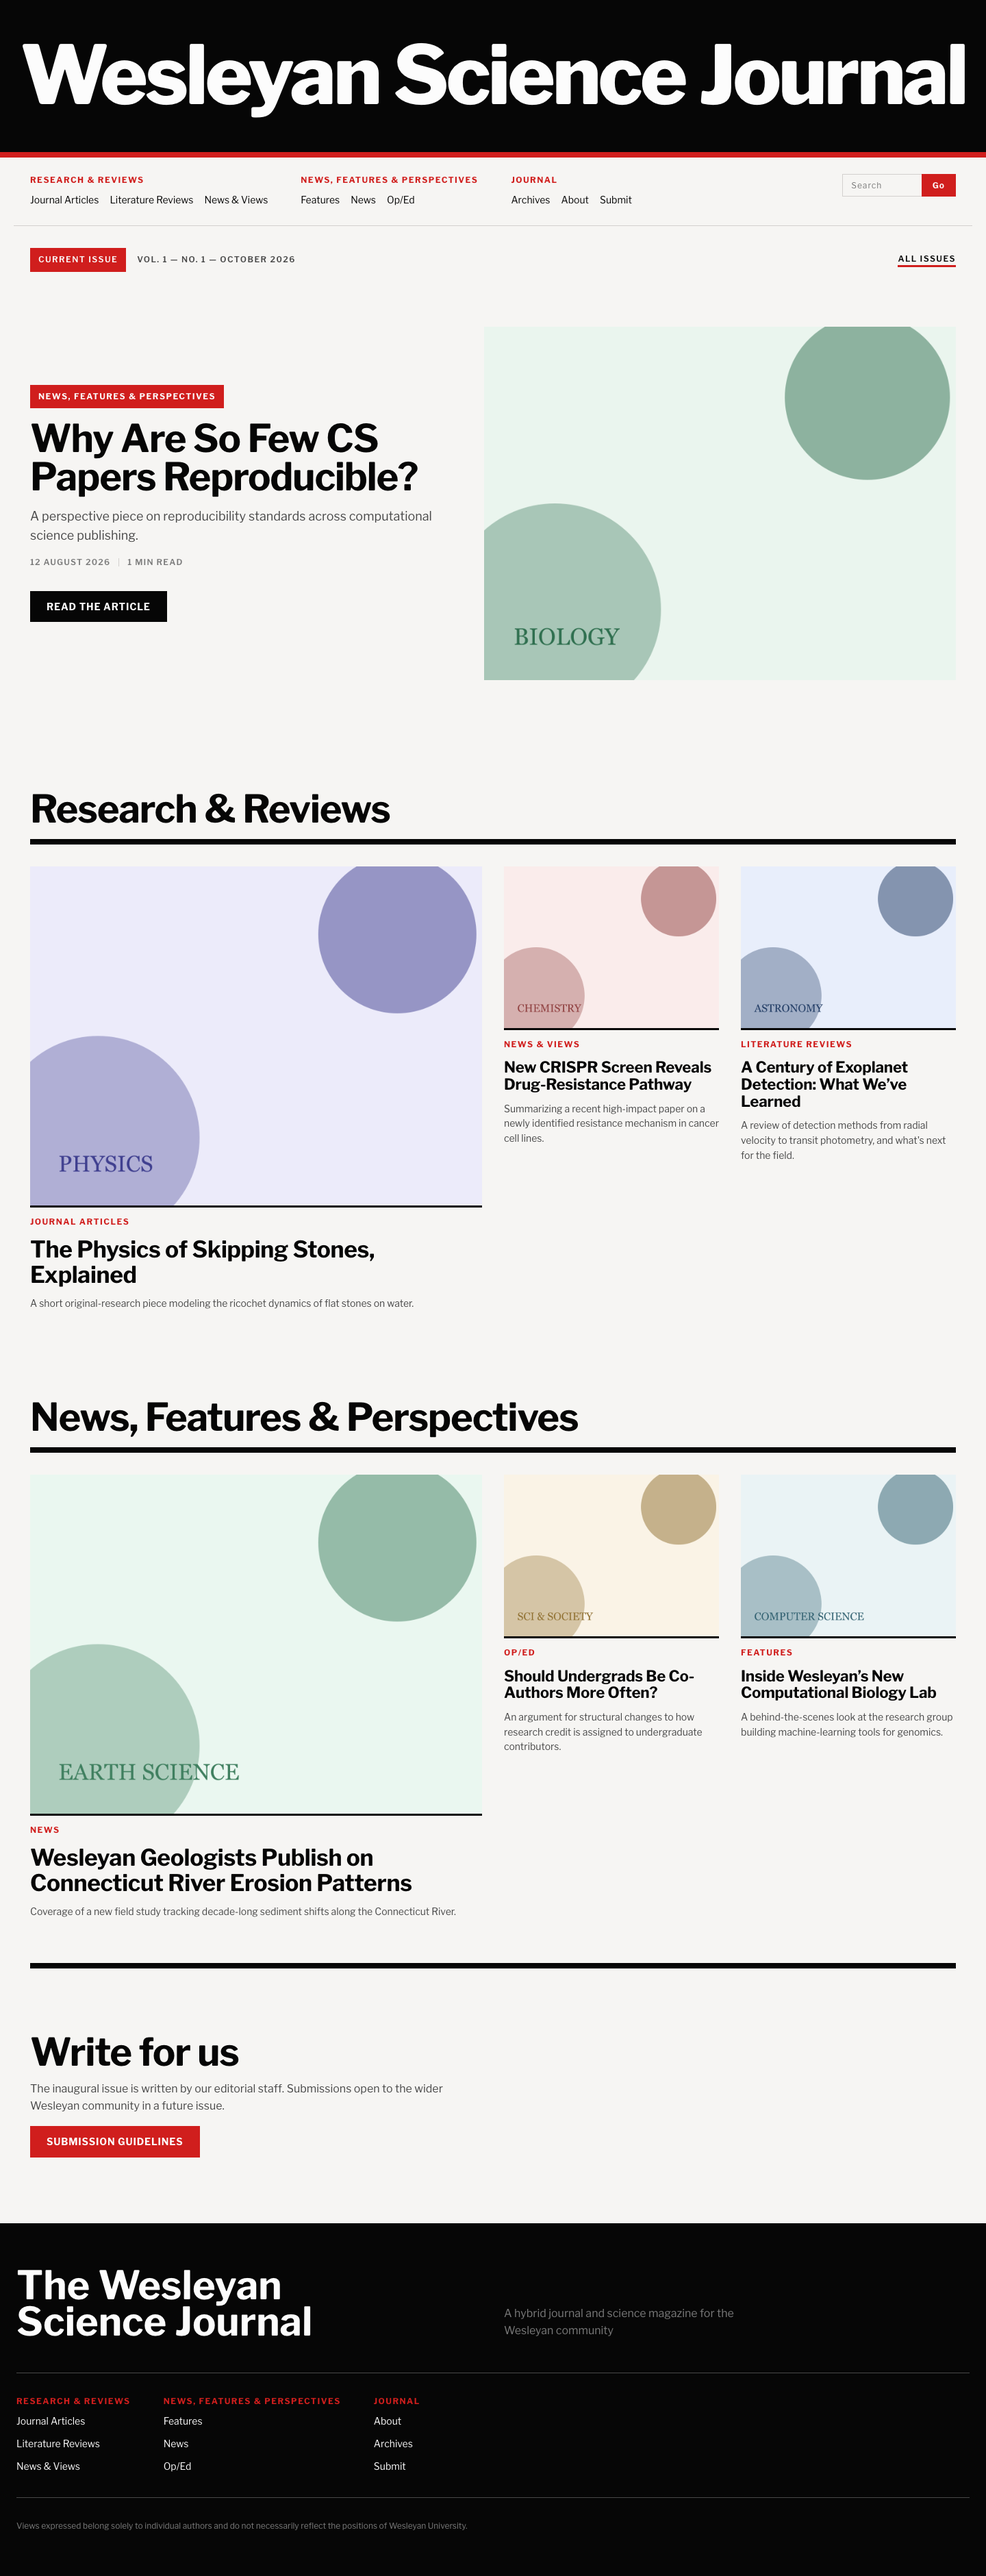
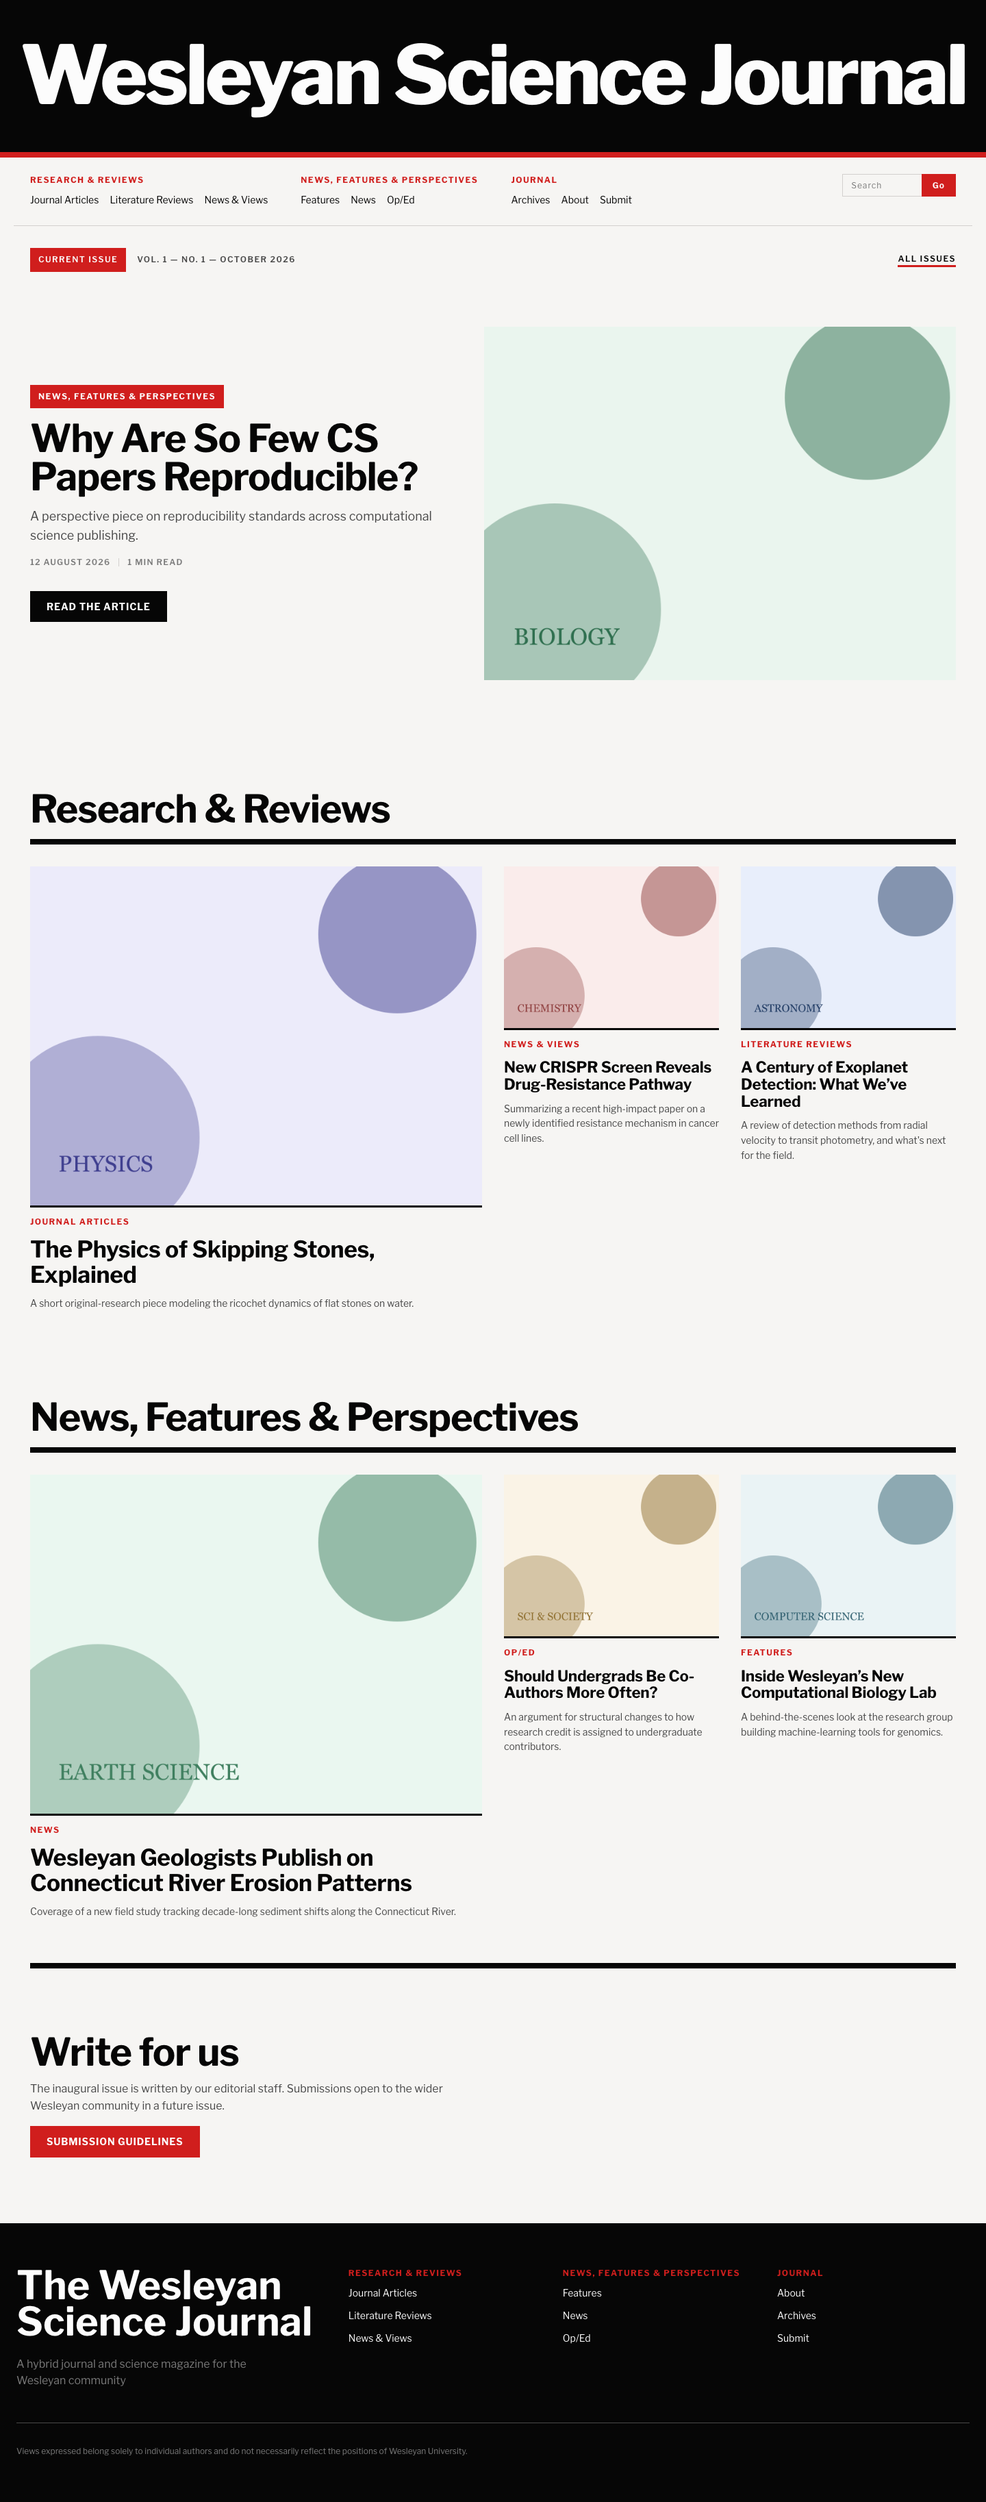
Rework the footer onto one full-width grid in both hybrids

diff --git a/themes/wessci-hybrid-b/style.css b/themes/wessci-hybrid-b/style.css
@@ -418,15 +418,19 @@ h1, h2, h3 {
 /* ---------- colophon ---------- */
 .colophon { background: var(--color-ink); color: var(--color-invert); padding-inline: var(--space-6); }
 
-.colophon__top {
+/* one grid for the whole footer: brand in a wider first track, the three
+   index groups across equal tracks, so every column shares an alignment */
+.colophon__main {
 	max-width: var(--shell);
 	margin: 0 auto;
 	padding-block: var(--space-16) var(--space-12);
 	display: grid;
-	grid-template-columns: minmax(0, 1fr) minmax(0, 1fr);
-	gap: var(--space-8);
-	align-items: end;
+	grid-template-columns: minmax(0, 1.3fr) minmax(0, 2.7fr);
+	gap: var(--space-12);
+	align-items: start;
 }
+
+.colophon__brand { display: flex; flex-direction: column; gap: var(--space-6); }
 .colophon__name {
 	font-family: var(--font-display);
 	font-size: clamp(2rem, 5vw, 3.6rem);
@@ -436,13 +440,10 @@ h1, h2, h3 {
 .colophon__tag { color: var(--color-ink-3); max-width: 34ch; }
 
 .colophon__index {
-	max-width: var(--shell);
-	margin: 0 auto;
-	display: flex;
-	gap: var(--space-12);
-	flex-wrap: wrap;
-	padding-block: var(--space-8);
-	border-top: var(--rule-hair) solid var(--color-ink-2);
+	display: grid;
+	grid-template-columns: repeat(3, minmax(0, 1fr));
+	gap: var(--space-8);
+	align-items: start;
 }
 .colophon__index .index-group__list { flex-direction: column; gap: var(--space-2); }
 
@@ -470,6 +471,7 @@ h1, h2, h3 {
 	.lead { grid-template-columns: minmax(0, 1fr); gap: var(--space-8); }
 	.hero__index-inner { gap: var(--space-8); }
 	.search { margin-inline-start: 0; }
+	.colophon__main { grid-template-columns: minmax(0, 1fr); gap: var(--space-12); }
 }
 
 @media (max-width: 720px) {
@@ -480,6 +482,7 @@ h1, h2, h3 {
 	.hero__index-inner { flex-direction: column; gap: var(--space-6); margin-top: calc(var(--space-12) * -1); padding: var(--space-6); }
 	.issuebar__link { margin-inline-start: 0; }
 	.division { padding-block: var(--space-12); }
+	.colophon__index { grid-template-columns: minmax(0, 1fr); gap: var(--space-6); }
 }
 
 @media (prefers-reduced-motion: reduce) {

diff --git a/themes/wessci-hybrid-a/style.css b/themes/wessci-hybrid-a/style.css
@@ -386,15 +386,19 @@ h1, h2, h3 {
 /* ---------- colophon ---------- */
 .colophon { background: var(--color-ink); color: var(--color-invert); padding-inline: var(--space-6); }
 
-.colophon__top {
+/* one grid for the whole footer: brand in a wider first track, the three
+   index groups across equal tracks, so every column shares an alignment */
+.colophon__main {
 	max-width: var(--shell);
 	margin: 0 auto;
 	padding-block: var(--space-16) var(--space-12);
 	display: grid;
-	grid-template-columns: minmax(0, 1fr) minmax(0, 1fr);
-	gap: var(--space-8);
-	align-items: end;
+	grid-template-columns: minmax(0, 1.3fr) minmax(0, 2.7fr);
+	gap: var(--space-12);
+	align-items: start;
 }
+
+.colophon__brand { display: flex; flex-direction: column; gap: var(--space-6); }
 .colophon__name {
 	font-family: var(--font-display);
 	font-size: clamp(2rem, 5vw, 3.6rem);
@@ -404,13 +408,10 @@ h1, h2, h3 {
 .colophon__tag { color: var(--color-ink-3); max-width: 34ch; }
 
 .colophon__index {
-	max-width: var(--shell);
-	margin: 0 auto;
-	display: flex;
-	gap: var(--space-12);
-	flex-wrap: wrap;
-	padding-block: var(--space-8);
-	border-top: var(--rule-hair) solid var(--color-ink-2);
+	display: grid;
+	grid-template-columns: repeat(3, minmax(0, 1fr));
+	gap: var(--space-8);
+	align-items: start;
 }
 .colophon__index .index-group__list { flex-direction: column; gap: var(--space-2); }
 
@@ -434,6 +435,7 @@ h1, h2, h3 {
 	.lead { grid-template-columns: minmax(0, 1fr); gap: var(--space-8); }
 	.hero__index { gap: var(--space-8); }
 	.search { margin-inline-start: 0; }
+	.colophon__main { grid-template-columns: minmax(0, 1fr); gap: var(--space-12); }
 }
 
 @media (max-width: 720px) {
@@ -442,6 +444,7 @@ h1, h2, h3 {
 	.hero__index { flex-direction: column; gap: var(--space-6); }
 	.issuebar__link { margin-inline-start: 0; }
 	.division { padding-block: var(--space-12); }
+	.colophon__index { grid-template-columns: minmax(0, 1fr); gap: var(--space-6); }
 	.hero__title {
 		white-space: normal;
 		font-size: clamp(2.75rem, 12vw, 4rem);

diff --git a/themes/wessci-hybrid-a/footer.php b/themes/wessci-hybrid-a/footer.php
@@ -1,29 +1,31 @@
 <footer class="colophon">
-	<div class="colophon__top">
-		<p class="colophon__name">The Wesleyan<br>Science Journal</p>
-		<p class="colophon__tag"><?php bloginfo( 'description' ); ?></p>
-	</div>
+	<div class="colophon__main">
+		<div class="colophon__brand">
+			<p class="colophon__name">The Wesleyan<br>Science Journal</p>
+			<p class="colophon__tag"><?php bloginfo( 'description' ); ?></p>
+		</div>
 
-	<nav class="colophon__index" aria-label="Footer">
-		<?php foreach ( wessci_divisions() as $div ) : ?>
+		<nav class="colophon__index" aria-label="Footer">
+			<?php foreach ( wessci_divisions() as $div ) : ?>
+				<div class="index-group">
+					<span class="index-group__title"><?php echo wessci_term_name( $div['term'] ); ?></span>
+					<ul class="index-group__list">
+						<?php foreach ( $div['children'] as $child ) : ?>
+							<li><a href="<?php echo esc_url( get_term_link( $child ) ); ?>"><?php echo wessci_term_name( $child ); ?></a></li>
+						<?php endforeach; ?>
+					</ul>
+				</div>
+			<?php endforeach; ?>
 			<div class="index-group">
-				<span class="index-group__title"><?php echo wessci_term_name( $div['term'] ); ?></span>
+				<span class="index-group__title">Journal</span>
 				<ul class="index-group__list">
-					<?php foreach ( $div['children'] as $child ) : ?>
-						<li><a href="<?php echo esc_url( get_term_link( $child ) ); ?>"><?php echo wessci_term_name( $child ); ?></a></li>
-					<?php endforeach; ?>
+					<li><a href="<?php echo esc_url( home_url( '/about/' ) ); ?>">About</a></li>
+					<li><a href="<?php echo esc_url( home_url( '/archives/' ) ); ?>">Archives</a></li>
+					<li><a href="<?php echo esc_url( home_url( '/submit/' ) ); ?>">Submit</a></li>
 				</ul>
 			</div>
-		<?php endforeach; ?>
-		<div class="index-group">
-			<span class="index-group__title">Journal</span>
-			<ul class="index-group__list">
-				<li><a href="<?php echo esc_url( home_url( '/about/' ) ); ?>">About</a></li>
-				<li><a href="<?php echo esc_url( home_url( '/archives/' ) ); ?>">Archives</a></li>
-				<li><a href="<?php echo esc_url( home_url( '/submit/' ) ); ?>">Submit</a></li>
-			</ul>
-		</div>
-	</nav>
+		</nav>
+	</div>
 
 	<div class="colophon__legal">
 		<p>Views expressed belong solely to individual authors and do not necessarily reflect the positions of Wesleyan University.</p>

diff --git a/themes/wessci-hybrid-b/footer.php b/themes/wessci-hybrid-b/footer.php
@@ -1,29 +1,31 @@
 <footer class="colophon">
-	<div class="colophon__top">
-		<p class="colophon__name">The Wesleyan<br>Science Journal</p>
-		<p class="colophon__tag"><?php bloginfo( 'description' ); ?></p>
-	</div>
+	<div class="colophon__main">
+		<div class="colophon__brand">
+			<p class="colophon__name">The Wesleyan<br>Science Journal</p>
+			<p class="colophon__tag"><?php bloginfo( 'description' ); ?></p>
+		</div>
 
-	<nav class="colophon__index" aria-label="Footer">
-		<?php foreach ( wessci_divisions() as $div ) : ?>
+		<nav class="colophon__index" aria-label="Footer">
+			<?php foreach ( wessci_divisions() as $div ) : ?>
+				<div class="index-group">
+					<span class="index-group__title"><?php echo wessci_term_name( $div['term'] ); ?></span>
+					<ul class="index-group__list">
+						<?php foreach ( $div['children'] as $child ) : ?>
+							<li><a href="<?php echo esc_url( get_term_link( $child ) ); ?>"><?php echo wessci_term_name( $child ); ?></a></li>
+						<?php endforeach; ?>
+					</ul>
+				</div>
+			<?php endforeach; ?>
 			<div class="index-group">
-				<span class="index-group__title"><?php echo wessci_term_name( $div['term'] ); ?></span>
+				<span class="index-group__title">Journal</span>
 				<ul class="index-group__list">
-					<?php foreach ( $div['children'] as $child ) : ?>
-						<li><a href="<?php echo esc_url( get_term_link( $child ) ); ?>"><?php echo wessci_term_name( $child ); ?></a></li>
-					<?php endforeach; ?>
+					<li><a href="<?php echo esc_url( home_url( '/about/' ) ); ?>">About</a></li>
+					<li><a href="<?php echo esc_url( home_url( '/archives/' ) ); ?>">Archives</a></li>
+					<li><a href="<?php echo esc_url( home_url( '/submit/' ) ); ?>">Submit</a></li>
 				</ul>
 			</div>
-		<?php endforeach; ?>
-		<div class="index-group">
-			<span class="index-group__title">Journal</span>
-			<ul class="index-group__list">
-				<li><a href="<?php echo esc_url( home_url( '/about/' ) ); ?>">About</a></li>
-				<li><a href="<?php echo esc_url( home_url( '/archives/' ) ); ?>">Archives</a></li>
-				<li><a href="<?php echo esc_url( home_url( '/submit/' ) ); ?>">Submit</a></li>
-			</ul>
-		</div>
-	</nav>
+		</nav>
+	</div>
 
 	<div class="colophon__legal">
 		<p>Views expressed belong solely to individual authors and do not necessarily reflect the positions of Wesleyan University.</p>
